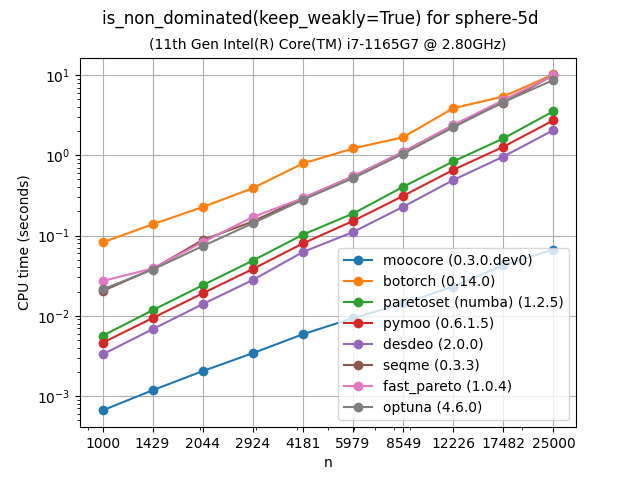
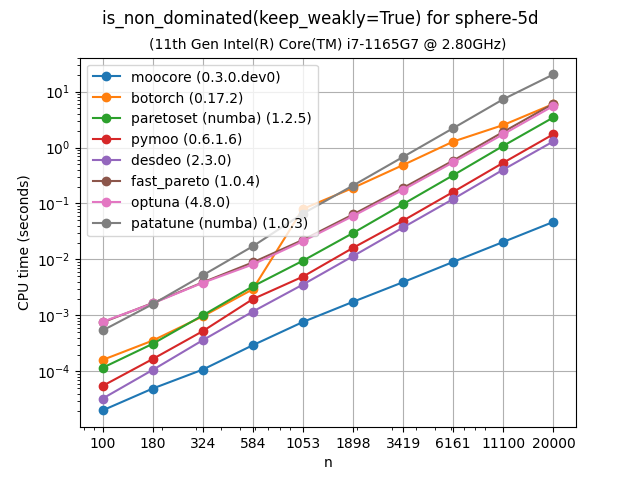
python/ Include patatune in benchmarks.
* python/pyproject.toml [project.optional-dependencies.benchmarks]: Install
   patatune.
 * python/doc/source/whatsnew/index.rst: Mention patatune.
 * python/doc/source/benchmarks.inc.rst: Likewise.
 * python/benchmarks/bench_ndom.py: Benchmark patatune.
 * python/doc/source/_static/bench/: Regenerate.

diff --git a/python/benchmarks/bench_ndom.py b/python/benchmarks/bench_ndom.py
@@ -29,7 +29,7 @@ from desdeo.tools.non_dominated_sorting import (
 from paretoset import paretoset
 from fast_pareto import is_pareto_front as fast_pareto_is_pf
 from optuna.study._multi_objective import _is_pareto_front as optuna_is_pf
-
+from patatune.util import get_dominated as patatune_get_dominated
 
 # See https://github.com/multi-objective/testsuite/tree/main/data
 files = {
@@ -37,16 +37,16 @@ files = {
     "test2D-200k": dict(file="test2D-200k.inp.xz", range=(1000, 50_000, 10)),
     "ran3d-40k": dict(file="ran.40000pts.3d.1.xz", range=(1000, 40_000, 10)),
     "sphere-4d": dict(
-        generate=(30000, 4, "sphere", 42), range=(1000, 30000, 10)
+        generate=(25_000, 4, "sphere", 42), range=(500, 25_000, 10)
     ),
     "convex-4d": dict(
-        generate=(30000, 4, "convex-sphere", 42), range=(1000, 30000, 10)
+        generate=(25_000, 4, "convex-sphere", 42), range=(500, 25_000, 10)
     ),
     "sphere-5d": dict(
-        generate=(25000, 5, "sphere", 42), range=(1000, 25000, 10)
+        generate=(20_000, 5, "sphere", 42), range=(100, 20_000, 10)
     ),
     "rmnk-10d": dict(
-        file="rmnk_0.0_10_16_1_0_ref.txt.xz", range=(1000, 20000, 10)
+        file="rmnk_0.0_10_16_1_0_ref.txt.xz", range=(100, 20_000, 10)
     ),
 }
 
@@ -96,6 +96,9 @@ for name in names:
         ),
         "optuna": lambda z: bool2pos(
             optuna_is_pf(-z, assume_unique_lexsorted=False)
+        ),
+        "patatune (numba)": lambda z: bool2pos(
+            np.logical_not(patatune_get_dominated(-z, 0))
         ),
     }
 
@@ -148,6 +151,9 @@ for name in names:
         ),
         "optuna": lambda z: bool2pos(
             optuna_is_pf(-z, assume_unique_lexsorted=False)
+        ),
+        "patatune (numba)": lambda z: bool2pos(
+            np.logical_not(patatune_get_dominated(-z, 0))
         ),
         ## paretobench only supports deduplication.
         # "paretobench": lambda z: bool2pos(paretobench.Population(f=-z).get_nondominated_indices()),

diff --git a/python/doc/source/benchmarks.inc.rst b/python/doc/source/benchmarks.inc.rst
@@ -1,7 +1,7 @@
 Benchmarks
 ==========
 
-The following plots compare the performance of `moocore`_, `pymoo`_, `BoTorch`_, `DESDEO`_, `paretoset`_, `Nevergrad`_, `jMetalPy`_, `fast-pareto`_, `Optuna`_ and `moarchiving`_.
+The following plots compare the performance of `moocore`_, `pymoo`_, `BoTorch`_, `DESDEO`_, `paretoset`_, `Nevergrad`_, `jMetalPy`_, `fast-pareto`_, `Optuna`_, `moarchiving`_, and `patatune`_.
 
 Other Python packages are not included in the comparison because they are based on these packages for the functionality benchmarked, so they are **at least as slow** as them. For example `Xopt`_ and `BoFire`_ use `BoTorch`_, `pysamoo`_ is an extension of `pymoo`_, and most of the multi-objective functionality of `DEAP`_ is shared by `pymoo`_.  We do not include functions from the Bayesian optimization toolbox `trieste`_, because it is much slower than `BoTorch`_ and too slow to run the benchmarks in a reasonable time. Similarly, we do not include `paretobench`_ because it is always slower than `BoTorch`_ for identifying nondominated points and more than 2000 times slower than `moocore`_ for computing the hypervolume in 3D, which is too slow to include in any benchmarks.
 
@@ -247,6 +247,7 @@ The following plots compare the speed of computing the :ref:`epsilon indicator  
 .. _moocore: https://multi-objective.github.io/moocore/python/
 .. _paretobench: https://github.com/electronsandstuff/ParetoBench
 .. _paretoset: https://github.com/tommyod/paretoset
+.. _patatune: https://cms-patatrack.github.io/patatune/
 .. _pygmo: https://esa.github.io/pygmo2/
 .. _pymoo: https://pymoo.org/
 .. _pysamoo: https://anyoptimization.com/projects/pysamoo/

diff --git a/python/doc/source/whatsnew/index.rst b/python/doc/source/whatsnew/index.rst
@@ -7,7 +7,7 @@ What's new
 Version 0.3.0 (development)
 ---------------------------
 
-- `moarchiving <https://cma-es.github.io/moarchiving/>`_ and `paretobench <https://github.com/electronsandstuff/ParetoBench>`_ are now included in the benchmarks.
+- `moarchiving <https://cma-es.github.io/moarchiving/>`_, `paretobench <https://github.com/electronsandstuff/ParetoBench>`_ and `patatune <https://cms-patatrack.github.io/patatune/>`_ are now included in the benchmarks.
 - :func:`~moocore.r2_exact` implements the exact computation of the R2 indicator for bi-objective solution sets.
 - :func:`~moocore.hypervolume` is significantly faster for more than four dimensions (Andreia P. Guerreiro).
 - :func:`~moocore.hypervolume` now handles 1D inputs and provides a clear error for 0D inputs (:issue:`58`).
